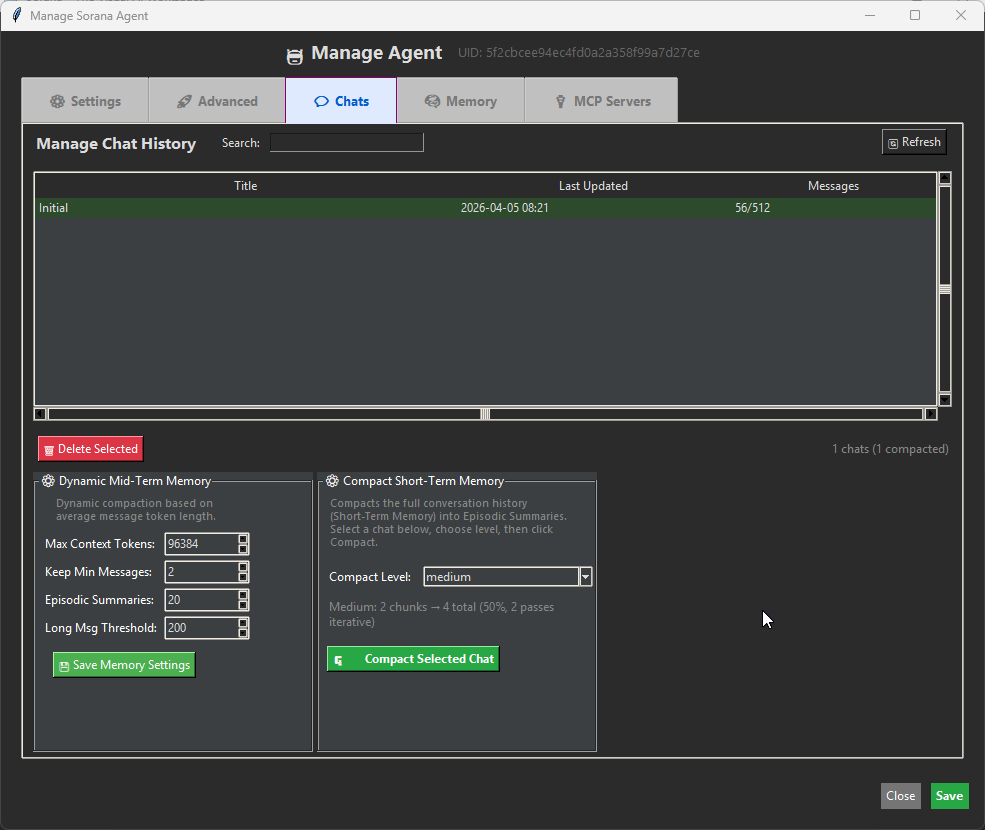
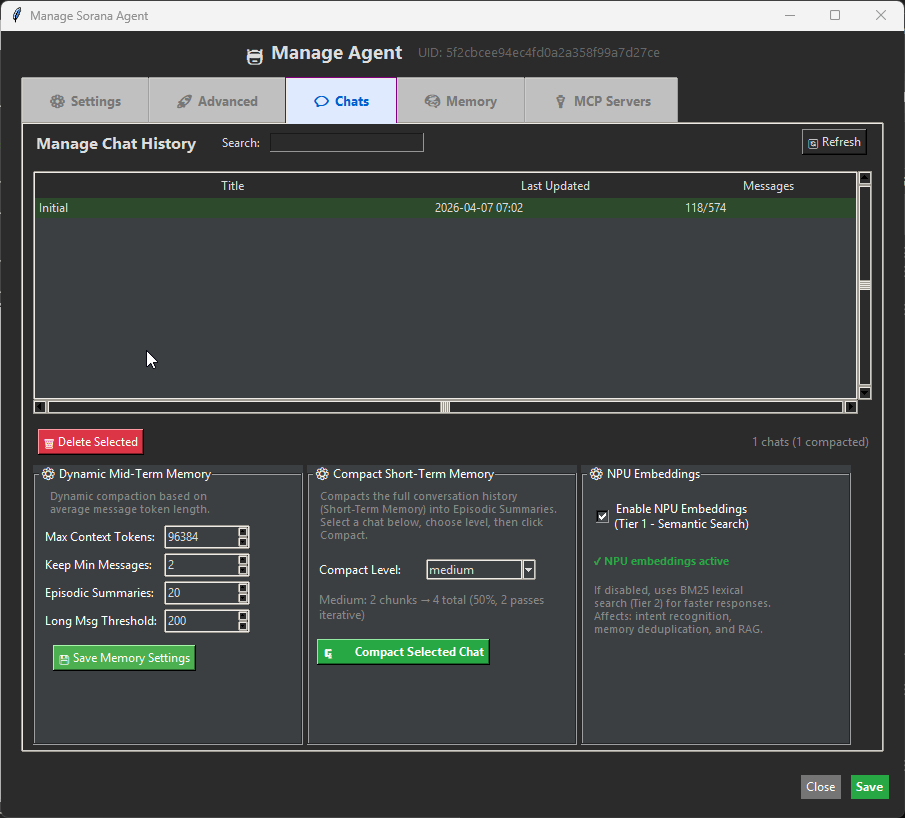
<think> </think>
feat: add semantic AI organization and chat capabilities for Sorana workspace.
</think>

feat: add semantic AI organization and chat capabilities for Sorana workspace.

diff --git a/docs/index.html b/docs/index.html
@@ -5,11 +5,11 @@
     <meta name="viewport" content="width=device-width, initial-scale=1.0, maximum-scale=1.0, user-scalable=no">
     <meta name="format-detection" content="telephone=no">
     <title>Sorana - Visual AI Workspace</title>
-    <meta name="description" content="Sorana: AI-powered visual workspace with MCP server for advanced file operations, OCR document processing, spatial AI organization, and no-code agent orchestration. Transform how you organize digital files with semantic AI analysis, intuitive canvas editor, and enhanced document context.">
-    <meta name="keywords" content="Visual AI Workspace, AI File Organizer, No-Code AI Agents, Document Chat, Spatial Organization, Digital Workspace, MCP Server, OCR, File Operations, AI Orchestration, Document Processing">
+    <meta name="description" content="Sorana is a visual AI workspace that finds files by topic instead of folder paths, lets you chat with documents and web content, automate file tasks through conversation, and process scanned documents with OCR to make them searchable for AI. Documents are indexed with adaptive retrieval — semantic search, keywords, and full-text fallback — precise and fast. AI memory extracts facts, skills, preferences, and personas from your chats, building long-term profiles that make answers more accurate over time. Old conversations auto-compact to save tokens. Run models locally so nothing leaves your machine, or connect to cloud AI.">
+    <meta name="keywords" content="Visual AI Workspace, Find Files by Topic, Chat with Documents, Document OCR, Adaptive RAG, AI Memory, Long-Term Memory, Auto Compaction, File Automation, Gmail Management, Local AI, Private AI, Conversation History, Multi-Language AI, Token Efficiency, Web Search, File Management, AI Assistant, Privacy-Focused">
     <meta name="author" content="Tetramatrix">
     <meta property="og:title" content="Sorana - Visual AI Workspace">
-    <meta property="og:description" content="Sorana: AI-powered visual workspace with MCP server for advanced file operations, OCR document processing, spatial AI organization, and no-code agent orchestration. Transform how you organize digital files with semantic AI analysis, intuitive canvas editor, and enhanced document context.">
+    <meta property="og:description" content="Sorana is a visual AI workspace that finds files by topic instead of folder paths, lets you chat with documents and web content, automate file tasks through conversation, and process scanned documents with OCR to make them searchable for AI. Documents are indexed with adaptive retrieval — semantic search, keywords, and full-text fallback — precise and fast. AI memory extracts facts, skills, preferences, and personas from your chats, building long-term profiles that make answers more accurate over time. Old conversations auto-compact to save tokens. Run models locally so nothing leaves your machine, or connect to cloud AI.">
     <meta property="og:type" content="website">
     <meta property="og:image" content="Sorana_cbfHZaRAyM.png">
 
@@ -76,11 +76,11 @@
 
  		<h2 id="what-is-sorana-h2">What is Sorana?</h2>
     <section class="intro-section" id="what-is-sorana">
-       
+
         <div class="cta-box">
             <span class="nav-arrow-down" onclick="toggleSectionFromArrow(this)">-</span>
             <span class="nav-arrow-up" onclick="toggleSectionFromArrow(this)">-</span>
-            <p>Sorana is an AI-powered visual workspace featuring a built-in MCP server for file operations, web content tools, OCR document processing, spatial AI organization, and no-code agent orchestration. Now with MCP Manager for visual server configuration, Gmail MCP server for full agentic email control, intelligent router & intent engine for smart tool routing, and adaptive 4-tier AI memory that auto-learns from conversations while using 93% fewer tokens.</p>
+            <p>Sorana solves the problem that files are hidden in folders, AI forgets everything between sessions, and every task is manual. Find files by topic on a visual canvas instead of navigating folder paths. Chat with documents and web content to get instant answers. Automate file tasks — create, move, edit, delete — through conversation. Process scanned documents with OCR so they become searchable for AI. AI memory that extracts facts, skills, and preferences from your chats, making answers more accurate over time. Run AI models locally so nothing leaves your machine, or connect to cloud AI.</p>
         </div>
 
         <!-- Video Section -->
@@ -130,33 +130,35 @@
         <section class="capabilities-section" id="core-capabilities">
 
             <div class="cta-box">
-                <p>A quick overview of what Sorana can do. Each category expands to show key features — scroll down for detailed sections with screenshots and setup guides.</p>
+                <p>What Sorana solves — each category expands to show how it works.</p>
             </div>
 
             <!-- 1. Visual Workspace -->
             <div class="cta-box capability-group">
                 <h3 class="capability-toggle" onclick="toggleCapability(this)">
-                    <span class="toggle-icon">+</span> 🎨 Visual Workspace
+                    <span class="toggle-icon">+</span> 📂 Find Files by Topic
                 </h3>
                 <div class="capability-content" style="display:none;">
                 	<div class="cta-box capability-group">
+                    <p><strong>Problem:</strong> "Where did I save that file?" — Navigating nested folders to find documents.</p>
                     <ul>
-                        <li><strong>Spatial AI Organization:</strong> AI semantically groups files on a 2D canvas — no more nested folders.</li>
-                        <li><strong>WYSIWYG Canvas Editor:</strong> Drag and drop, rename, resize — full visual control.</li>
-                        <li><strong>Mind Map Generation:</strong> Generate visual representations of folder hierarchies.</li>
+                        <li><strong>Solution:</strong> AI groups files on a 2D canvas by topic — visually find files by what they're about, not where they're saved.</li>
+                        <li><strong>Canvas Editor:</strong> Drag and drop, rename, resize — full visual control.</li>
+                        <li><strong>Mind Maps:</strong> Generate visual representations of folder hierarchies to reveal hidden relationships.</li>
                     </ul>
                    </div>
                 </div>
 
             <h3 class="capability-toggle" onclick="toggleCapability(this)">
-                    <span class="toggle-icon">+</span> 🤖 Agents & Pipelines
+                    <span class="toggle-icon">+</span> 💬 Chat with Documents & Web
                 </h3>
                 <div class="capability-content" style="display:none;">
             			<div class="cta-box capability-group">
+                    <p><strong>Problem:</strong> Opening and reading documents takes too long. Research means opening tabs, comparing, copying.</p>
                     <ul>
-                        <li><strong>No-Code Agent Orchestration:</strong> Build custom agents and connect them into pipelines — drag and drop on the canvas.</li>
-                        <li><strong>Chat History & Management:</strong> All conversations saved, searchable, reloadable. Nothing gets lost.</li>
-                        <li><strong>Intelligent Router:</strong> Smart tool call routing, intent classification, max 3 tool calls per request.</li>
+                        <li><strong>Documents:</strong> Ask questions about any file — PDFs, code, text. Get instant answers without manual reading.</li>
+                        <li><strong>Web:</strong> Fetch content, scrape pages, search the web — all through conversation. "Compare iPhone 16 vs Samsung S25" → result saved locally.</li>
+                        <li><strong>File Automation:</strong> Create, move, edit, delete files through chat. "Create folder X, move Y there" — done.</li>
                     </ul>
                     <figure class="chatbot-figure">
                         <img src="chat.png" alt="Sorana Agent Orchestration" class="chatbot-screenshot">
@@ -165,41 +167,45 @@
                 </div>
 
             <h3 class="capability-toggle" onclick="toggleCapability(this)">
-                    <span class="toggle-icon">+</span> 🧠 AI Memory
+                    <span class="toggle-icon">+</span> 🧠 AI Memory That Remembers
                 </h3>
                 <div class="capability-content" style="display:none;">
                 	<div class="cta-box capability-group">
+                    <p><strong>Problem:</strong> AI forgets who you are after every session. Long chats are expensive and slow.</p>
                     <ul>
-                        <li><strong>4-Tier Memory:</strong> Current history → Episodic summaries → Observations → Profiles. Auto-extracts facts, preferences, skills.</li>
-                        <li><strong>Global Memory Sharing:</strong> A personal AI that learns — memories shared across ALL agents, import/export between projects.</li>
-                        <li><strong>Live Session Stats:</strong> Tokens/sec, time-to-first-token, input/output tokens visible in every chat. <span class="lemonade-only">(🍋 Lemonade only)</span></li>
+                        <li><strong>Solution:</strong> Auto-extracts facts, skills, preferences, and personas from conversations. Gets better over time.</li>
+                        <li><strong>Auto-Compaction:</strong> Old conversations summarized → 93% token savings, full context preserved.</li>
+                        <li><strong>Global Memory:</strong> Shared across all agents, import/export, fully manageable.</li>
                     </ul>
                   </div>
                 </div>
 
              <h3 class="capability-toggle" onclick="toggleCapability(this)">
-                    <span class="toggle-icon">+</span> 🔌 MCP & Integrations
+                    <span class="toggle-icon">+</span> 🔌 MCP Server & Integrations
                 </h3>
                 <div class="capability-content" style="display:none;">
                 	<div class="cta-box capability-group">
+                    <p><strong>Problem:</strong> Repetitive file tasks are manual. Email management is tedious. Research takes forever.</p>
                     <ul>
                         <li><strong>MCP Manager:</strong> Visual interface — enable/disable servers, configure settings, monitor health.</li>
-                        <li><strong>File Operations:</strong> read, write, move, search, edit — all through agent chat.</li>
-                        <li><strong>Web Content Tools:</strong> fetch, scrape, search, extract — AI has direct web access.</li>
-                        <li><strong>Gmail MCP Server:</strong> Full agentic email control — list, send, label, trash, archive (JSON/EML/MBOX).</li>
+                        <li><strong>File Operations:</strong> read, write, move, search, edit — all through conversation.</li>
+                        <li><strong>Web Tools:</strong> Fetch, scrape, search, extract — AI has direct web access.</li>
+                        <li><strong>Gmail:</strong> Full email control — list, send, label, trash, archive (JSON/EML/MBOX).</li>
+                        <li><strong>External Servers:</strong> Connect Google Drive, GitHub, PostgreSQL, custom tools.</li>
                     </ul>
                   </div>
                 </div>
 
              <h3 class="capability-toggle" onclick="toggleCapability(this)">
-                    <span class="toggle-icon">+</span> ☁️ AI Backends
+                    <span class="toggle-icon">+</span> ☁️ AI Backends — Local or Cloud
                 </h3>
                 <div class="capability-content" style="display:none;">
                     <div class="cta-box capability-group">
+                    <p><strong>Problem:</strong> Data goes to cloud providers — no privacy. Or local models are hard to configure.</p>
                     <ul>
-                        <li><strong>🍋 Lemonade:</strong> NPU acceleration, 2-pane model manager (chat + embedding simultaneously). Best local option.</li>
-                        <li><strong>Cloud:</strong> OpenAI, Mistral, Gemini (free tier), and more.</li>
-                        <li><strong>Local:</strong> 🍋 Lemonad, Ollama, Llama.cpp, LM Studio, and any compatible service.</li>
+                        <li><strong>Local:</strong> 🍋 Lemonade (NPU acceleration), Ollama, Llama.cpp, LM Studio — nothing leaves your machine.</li>
+                        <li><strong>Cloud:</strong> OpenAI, Mistral, Gemini (free tier), and more — when you need power.</li>
+                        <li><strong>Model Manager:</strong> 2-pane view (🍋 Lemonade only) — chat model + embedding model simultaneously.</li>
                     </ul>
                   </div>
                 </div>
@@ -210,8 +216,8 @@
                 <div class="capability-content" style="display:none;">
                     <div class="cta-box capability-group">
                     <ul>
+                        <li><strong>Portable:</strong> Runs from USB, extract anywhere, data stays under your control.</li>
                         <li><strong>Centralized Storage:</strong> All data in a single <code>.sorana/</code> folder. Existing installs migrate automatically.</li>
-                        <li><strong>Portable:</strong> Runs from USB, keeps data under user control.</li>
                     </ul>
                   </div>
                 </div>
@@ -234,32 +240,33 @@
         <div class="cta-box">
             <span class="nav-arrow-down" onclick="toggleSectionFromArrow(this)">-</span>
             <span class="nav-arrow-up" onclick="toggleSectionFromArrow(this)">-</span>
-            <p>Sorana features an adaptive 4-tier AI memory system that automatically learns from every conversation. Combined with an intelligent router and intent engine, the agent always remembers — from your last message to your last session — while using dramatically fewer tokens. Perfect for local and private inference.</p>
+            <p>Sorana's AI remembers who you are, what you prefer, and what you've discussed — making every answer more accurate while using dramatically fewer tokens. Perfect for local and private inference.</p>
 
             <div class="cta-box capability-group">
                 <h3 class="capability-toggle" onclick="toggleCapability(this)">
-                    <span class="toggle-icon">+</span> The 4 Memory Tiers
+                    <span class="toggle-icon">+</span> Memory That Learns Over Time
                 </h3>
                 <div class="capability-content" style="display:none;">
                 	<div class="cta-box capability-group">
+                    <p><strong>Problem:</strong> AI starts from scratch every session — forgets who you are, what you do, what you prefer.</p>
                     <ul>
-                <li><strong>Current History</strong> — Your active conversation, always in context</li>
-                <li><strong>Episodic Summary</strong> — Long chats compressed into compact summaries (93% token reduction)</li>
-                <li><strong>Observations</strong> — Individual facts, preferences, and skills auto-extracted from conversations</li>
-                <li><strong>Profiles</strong> — Observations consolidated into entity summaries (user, company, topic) — 61% fewer tokens</li>
+                <li><strong>Active Conversation</strong> — Your current chat, always in context</li>
+                <li><strong>Auto-Compaction</strong> — Long chats compressed into summaries (93% token reduction). Context stays, cost drops.</li>
+                <li><strong>Observations</strong> — Facts, preferences, and skills auto-extracted from every message</li>
+                <li><strong>Profiles</strong> — Observations consolidated into entity summaries (you, companies, topics) — 61% fewer tokens</li>
             </ul>
           </div>
                 </div>
 
             <h3 class="capability-toggle" onclick="toggleCapability(this)">
-                    <span class="toggle-icon">+</span> How it works
+                    <span class="toggle-icon">+</span> How It Works
                 </h3>
                 <div class="capability-content" style="display:none;">
                 	<div class="cta-box capability-group">
                     <ul>
-                <li><strong>Auto-Extraction:</strong> Every message analyzed — memories saved automatically</li>
-                <li><strong>Profile-First Retrieval:</strong> Compact profiles injected first, observations as fallback</li>
-                <li><strong>4-Tier RAG Search:</strong> NPU Embeddings → BM25 → Keyword → Full Text — precise, fast, works offline</li>
+                <li><strong>Auto-Extraction:</strong> Every message analyzed — memories saved automatically, no manual effort</li>
+                <li><strong>Profile-First Retrieval:</strong> Compact profiles loaded first, detailed observations as fallback — fast and precise</li>
+                <li><strong>Adaptive Document Search:</strong> Semantic search → BM25 → Keyword → Full Text — precise, fast, works offline</li>
                 <li><strong>Conversation Compaction:</strong> 17,000 → 1,200 tokens while keeping full context</li>
                 <li><strong>Cross-Agent Memory:</strong> Share memories between agents, import/export, global memories</li>
             </ul>
@@ -277,14 +284,15 @@
 						</div>
 						
             <h3 class="capability-toggle" onclick="toggleCapability(this)">
-                    <span class="toggle-icon">+</span> Intelligent Router & Intent Engine
+                    <span class="toggle-icon">+</span> Smart Tool Routing
                 </h3>
                 <div class="capability-content" style="display:none;">
             <div class="cta-box capability-group">
+                    <p><strong>Problem:</strong> AI doesn't know whether to search memory, call a tool, or query documents — wastes tokens on wrong actions.</p>
                     <ul>
-                <li><strong>Intent Classification:</strong> Detects memory search, tool calls, document queries, or hybrid intents</li>
-                <li><strong>Entity Extraction:</strong> Automatically identifies companies, users, topics from natural language</li>
-                <li><strong>Smart Tool Routing:</strong> Routes to correct MCP server (file ops, Gmail, web tools)</li>
+                <li><strong>Intent Classification:</strong> Detects memory search, tool calls, document queries, or hybrid intents automatically</li>
+                <li><strong>Entity Extraction:</strong> Identifies companies, users, topics from natural language</li>
+                <li><strong>Smart Routing:</strong> Routes to correct MCP server (file ops, Gmail, web tools) — no wasted calls</li>
                 <li><strong>Loop Prevention:</strong> Max 3 tool calls per request — prevents infinite loops</li>
                 <li><strong>Multi-Language:</strong> English + German intent patterns supported</li>
             </ul>
@@ -307,13 +315,13 @@
                 <div class="capability-content" style="display:none;">
                   <div class="cta-box capability-group">
                     <ul>
-                <li><strong>Token Efficiency:</strong> Smart memory layering reduces token usage by serving only relevant context</li>
-                <li><strong>Live Session Stats:</strong> Real-time performance metrics — tokens/sec, time-to-first-token, input/output tokens — visible in every chat window. <span class="lemonade-only">(🍋 Lemonade only)</span></li>
-                <li><strong>Global Memory Storage:</strong> A personal AI that learns from every conversation — memories are stored centrally and shared across ALL agents, creating a unified knowledge base</li>
-                <li><strong>Memory Import/Export:</strong> Transfer memories between projects, backup and share knowledge, full portability</li>
-                <li><strong>Dynamic Mid-Term Memory:</strong> Configurable conversation compression with adaptive thresholds for perfect control</li>
-                <li><strong>NPU Acceleration:</strong> Uses 🍋 Lemonade backend with integrated FastFlowLM NPU for Windows Ryzen. 🍋 Lemonade is AMD's high-performance AI server (C++ based) integrating multiple backends including FastFlowLM for native NPU acceleration. Falls back to text-based retrieval if no NPU is available.</li>
-                <li><strong>Multi-Language:</strong> English + German for memory routing, 25+ languages for tool intents (Gmail, file ops), 15+ languages for document retrieval — all auto-detected</li>
+                <li><strong>Token Efficiency:</strong> Only relevant context loaded — profile-first retrieval, fallback only when needed. Dramatically fewer tokens, faster answers.</li>
+                <li><strong>Live Session Stats:</strong> Real-time performance metrics — tokens/sec, time-to-first-token, input/output tokens — visible in every chat. <span class="lemonade-only">(🍋 Lemonade only)</span></li>
+                <li><strong>Global Memory:</strong> Learns from every conversation — memories shared across ALL agents, creating a unified knowledge base.</li>
+                <li><strong>Memory Import/Export:</strong> Transfer memories between projects, backup and share knowledge.</li>
+                <li><strong>Configurable Compaction:</strong> Control when and how conversations are compressed — perfect thresholds for your workflow.</li>
+                <li><strong>NPU Acceleration:</strong> 🍋 Lemonade with FastFlowLM for native AMD Ryzen NPU acceleration. Falls back to text-based retrieval if no NPU available.</li>
+                <li><strong>Multi-Language:</strong> English + German for memory routing, 25+ languages for tool intents, 15+ languages for document retrieval — all auto-detected.</li>
             </ul>
                 </div>
                 
@@ -328,11 +336,11 @@
 
 		<h2 id="mcp-section-h2">MCP Server & Integrations</h2>
     <section class="mcp-section" id="mcp-section">
-        
+
         <div class="cta-box">
             <span class="nav-arrow-down" onclick="toggleSectionFromArrow(this)">-</span>
             <span class="nav-arrow-up" onclick="toggleSectionFromArrow(this)">-</span>
-            <p>Sorana includes a built-in MCP (Model Context Protocol) server that enables advanced file operations and web content access through AI agents. Connect any third-party external MCP server (Google Drive, GitHub, PostgreSQL, custom tools) for unlimited extensibility. To use these capabilities:</p>
+            <p>Sorana solves the problem that file tasks, web research, and email management are all manual, disconnected workflows. Through MCP servers, your AI can interact with files, web content, and external services — all through conversation. Connect any third-party MCP server (Google Drive, GitHub, PostgreSQL, custom tools) for unlimited extensibility.</p>
             <ol>
                 <li>Open MCP Manager to configure and enable servers</li>
                 <li>Connect external MCP servers if needed (Google Drive, GitHub, databases, etc.)</li>
@@ -346,10 +354,11 @@
                     <span class="toggle-icon">+</span> MCP Manager
                 </h3>
                 <div class="capability-content" style="display:none;">
-                	
+
                 	<div class="cta-box capability-group">
-                		
-                    <p><strong>MCP Manager</strong> — Visual interface for managing MCP servers. Enable/disable servers, configure settings, and monitor connection health — all without editing config files. Connect any compatible external MCP server for unlimited extensibility.</p>
+
+                    <p><strong>Problem:</strong> Managing MCP servers means editing config files manually — error-prone and tedious.</p>
+                    <p><strong>Solution:</strong> Visual interface for managing MCP servers. Enable/disable servers, configure settings, and monitor connection health — all without touching config files. Connect any compatible external MCP server for unlimited extensibility.</p>
 
             <figure class="screenshot-figure">
                 <img src="mcpmanager.png" alt="MCP Manager Interface" class="sorana-screenshot">
@@ -362,8 +371,9 @@
                     <span class="toggle-icon">+</span> File Operations</h3>
             <div class="capability-content" style="display:none;">
             <div class="cta-box capability-group">
-            	
-            <p>Common file operations you can perform in the agent chat:</p>
+
+            <p><strong>Problem:</strong> Repetitive file tasks — creating folders, moving files, reading, editing — require manual clicking and navigation.</p>
+            <p><strong>Solution:</strong> Automate file operations through conversation:</p>
             <ul>
                 <li>"List the first 10 files in the current directory" (uses list_directory)</li>
                 <li>"Search all text files in the workspace" (uses search_files)</li>
@@ -385,7 +395,8 @@
                 </h3>
                 <div class="capability-content" style="display:none;">
           <div class="cta-box capability-group">
-                    <p>Built-in MCP web content tools give your AI direct web access. Combine file operations with web content for even more powerful agents:</p>
+                    <p><strong>Problem:</strong> Research means opening multiple tabs, comparing information, copying data, saving results — fragmented and time-consuming.</p>
+                    <p><strong>Solution:</strong> Built-in web tools give your AI direct access. One query → fetch, compare, save locally:</p>
             <ul>
                 <li><strong>web_fetch_content:</strong> Fetch and read content from any URL</li>
                 <li><strong>web_scrape_page:</strong> Scrape full webpage content</li>
@@ -420,7 +431,8 @@
                 </h3>
                 <div class="capability-content" style="display:none;">
                 <div class="cta-box capability-group">
-                    <p><strong>Gmail MCP Server</strong> — Full agentic Gmail control through your AI agent:</p>
+                    <p><strong>Problem:</strong> Managing emails — searching, labeling, archiving, sending — requires manual navigation through Gmail's interface.</p>
+                    <p><strong>Solution:</strong> Full agentic Gmail control through chat:</p>
             <ul>
                 <li><strong>List</strong> emails by label, date, or search query</li>
                 <li><strong>Get</strong> individual email content with headers</li>
@@ -451,25 +463,25 @@
 
 		 <h2 id="ocr-section-h2">Document Processing & OCR</h2>
     <section class="ocr-section" id="ocr-section">
-       
+
         <div class="cta-box">
             <span class="nav-arrow-down" onclick="toggleSectionFromArrow(this)">-</span>
             <span class="nav-arrow-up" onclick="toggleSectionFromArrow(this)">-</span>
             <p>
-                Document OCR and Context Enhancement allows users to enrich agents with specific knowledge by dragging and dropping documents directly onto agents. After organizing files spatially, users can make documents accessible to agents by processing them through OCR, converting them into contextual information. This is accomplished via the context menu options 'Document Overview' and 'Process Documents,' which is particularly valuable for PDFs and image-based documents.
+                <strong>Problem:</strong> Scanned PDFs and images are invisible to AI — no text content to search or chat with.
             </p>
             <p>
-                It's important to distinguish this from MCP server functionality. While the MCP server allows file interaction during chats, it currently lacks OCR capabilities and can only access text-based file content.
+                <strong>Solution:</strong> OCR extracts text from scanned documents, images, and PDFs. Once processed, documents become searchable and indexed via adaptive retrieval (semantic search → keywords → full-text fallback) so AI finds precise answers from your documents. Process documents via the context menu ('Document Overview' and 'Process Documents') — particularly valuable for PDFs and image-based documents.
             </p>
 
             <div class="cta-box capability-group">
                 <h3 class="capability-toggle" onclick="toggleCapability(this)">
-                    <span class="toggle-icon">+</span> Document OCR Capabilities
+                    <span class="toggle-icon">+</span> OCR Capabilities
                 </h3>
                 <div class="capability-content" style="display:none;">
                 	<div class="cta-box capability-group">
                     <p>
-                Sorana includes powerful Optical Character Recognition (OCR) capabilities for processing various document types with support for common character encodings:
+                Sorana processes various document types, extracting text so AI can work with them:
             </p>
             <ul>
                 <li><strong>Text PDFs:</strong> Extract text from PDF documents (supports embedded text and OCR for scanned content)</li>
@@ -662,7 +674,7 @@
                 <a href="README.txt" class="btn btn-primary">Readme</a>
             </div>
 
-             <code>$ md5sum.exe Sorana.exe v1.0.19 0ec161ac7b7b1a1abf7fd173d2635920</code>
+             <code>$ md5sum.exe Sorana.exe v1.0.20 def1bbc704365eb5a3ab2e08d38557a3</code>
         
             <a href="https://apps.microsoft.com/store/detail/9N8C43PZC1RN" target="_blank"><img src="ms-store.svg" alt="Get it from Microsoft" width="50%" /></a>
 